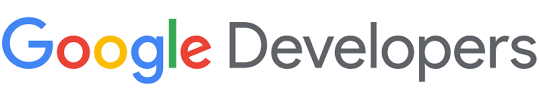
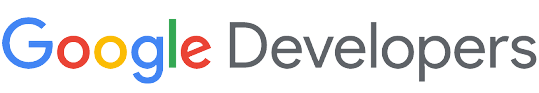
deploy: 3fbd9a5fe7c3a46474e0fc8ba51379b4b99c4ef1

diff --git a/flutter_service_worker.js b/flutter_service_worker.js
@@ -7,8 +7,8 @@ const RESOURCES = {
 "icons/Icon-192.png": "f734be520ccdb09c10e2bbc6ec0b191b",
 "favicon.png": "984542880c9a626c99c8984baa3f5c29",
 "manifest.json": "21ec26c3d3fde1fd00fb3b188a7bc64d",
-"index.html": "cf862394bd966570348270af5125ad54",
-"/": "cf862394bd966570348270af5125ad54",
+"index.html": "56d050d8ff4a1d756ca864466ae18b55",
+"/": "56d050d8ff4a1d756ca864466ae18b55",
 "assets/packages/cupertino_icons/assets/CupertinoIcons.ttf": "6d342eb68f170c97609e9da345464e5e",
 "assets/packages/material_design_icons_flutter/lib/fonts/materialdesignicons-webfont.ttf": "174c02fc4609e8fc4389f5d21f16a296",
 "assets/NOTICES": "32914a11dee1bce7105c55e1397537c5",
@@ -25,7 +25,7 @@ const RESOURCES = {
 "assets/AssetManifest.json": "dee9fd0dcadb2d0e94f3cf0f6d5661fb",
 "assets/assets/images/logo.png": "733e929d696c4b8dab635907ee73d151",
 "assets/assets/images/sponsors/sessionize.png": "0c1b50bea6498c24c2dc9e23716fba59",
-"assets/assets/images/sponsors/google_developers.png": "dfe596d5a617b7f7f6a2dc04a3d7eee5",
+"assets/assets/images/sponsors/google_developers.png": "1a9364ba5312ee603a1cca2f022799d8",
 "assets/assets/images/sponsors/dusyeri.png": "1da59bf0bbd03c0c38a57bacc1c85340",
 "assets/assets/images/sponsors/superlist.png": "c70faf138d8f7259b99bb29861f5867d",
 "assets/assets/images/sponsors/parasut.png": "a14e6f602962060d8805c4e6ff1ab408",

diff --git a/index.html b/index.html
@@ -38,7 +38,7 @@
 <script>
     if ('serviceWorker' in navigator) {
         window.addEventListener('flutter-first-frame', function () {
-            navigator.serviceWorker.register('flutter_service_worker.js?v=1505073654');
+            navigator.serviceWorker.register('flutter_service_worker.js?v=2632379475');
         });
     }
 </script>
